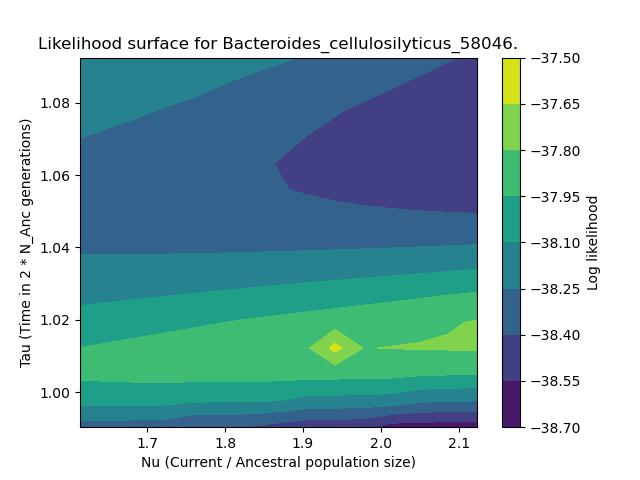
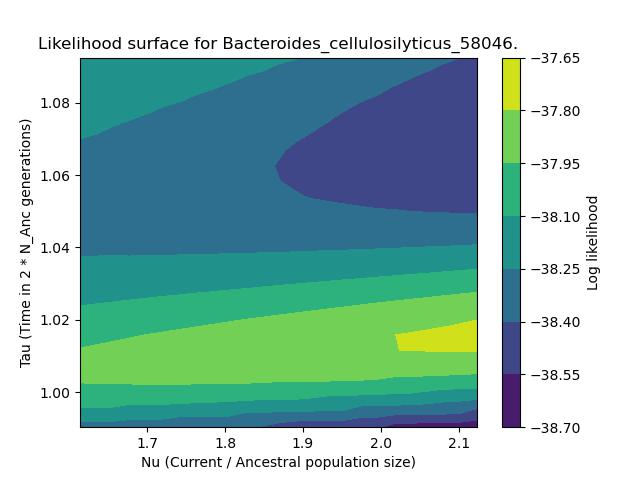
B. cell

diff --git a/Scripts/plot_likelihood.py b/Scripts/plot_likelihood.py
@@ -464,7 +464,7 @@ class PlotLikelihood():
                 x = input_nu  # Initial x value
                 y = input_tau  # Initial y value
 
-                npts = 15
+                npts = 25
 
                 x_range = numpy.linspace(x * 0.95, x * 1.25, npts)
                 # x_range = numpy.linspace(1.6, 2.4, npts)
